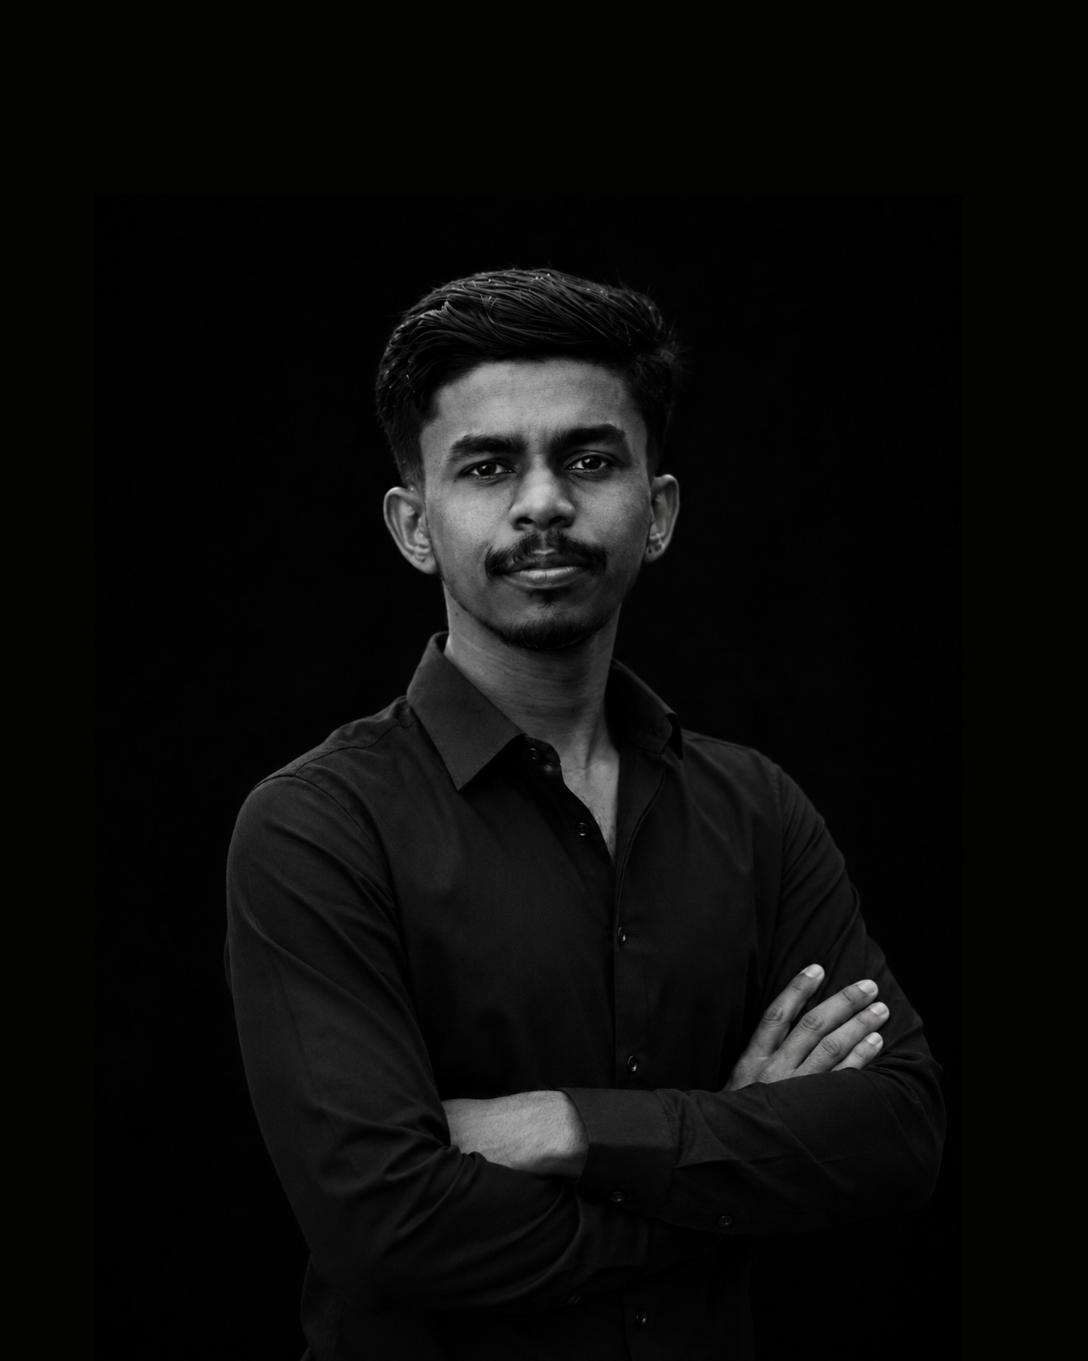
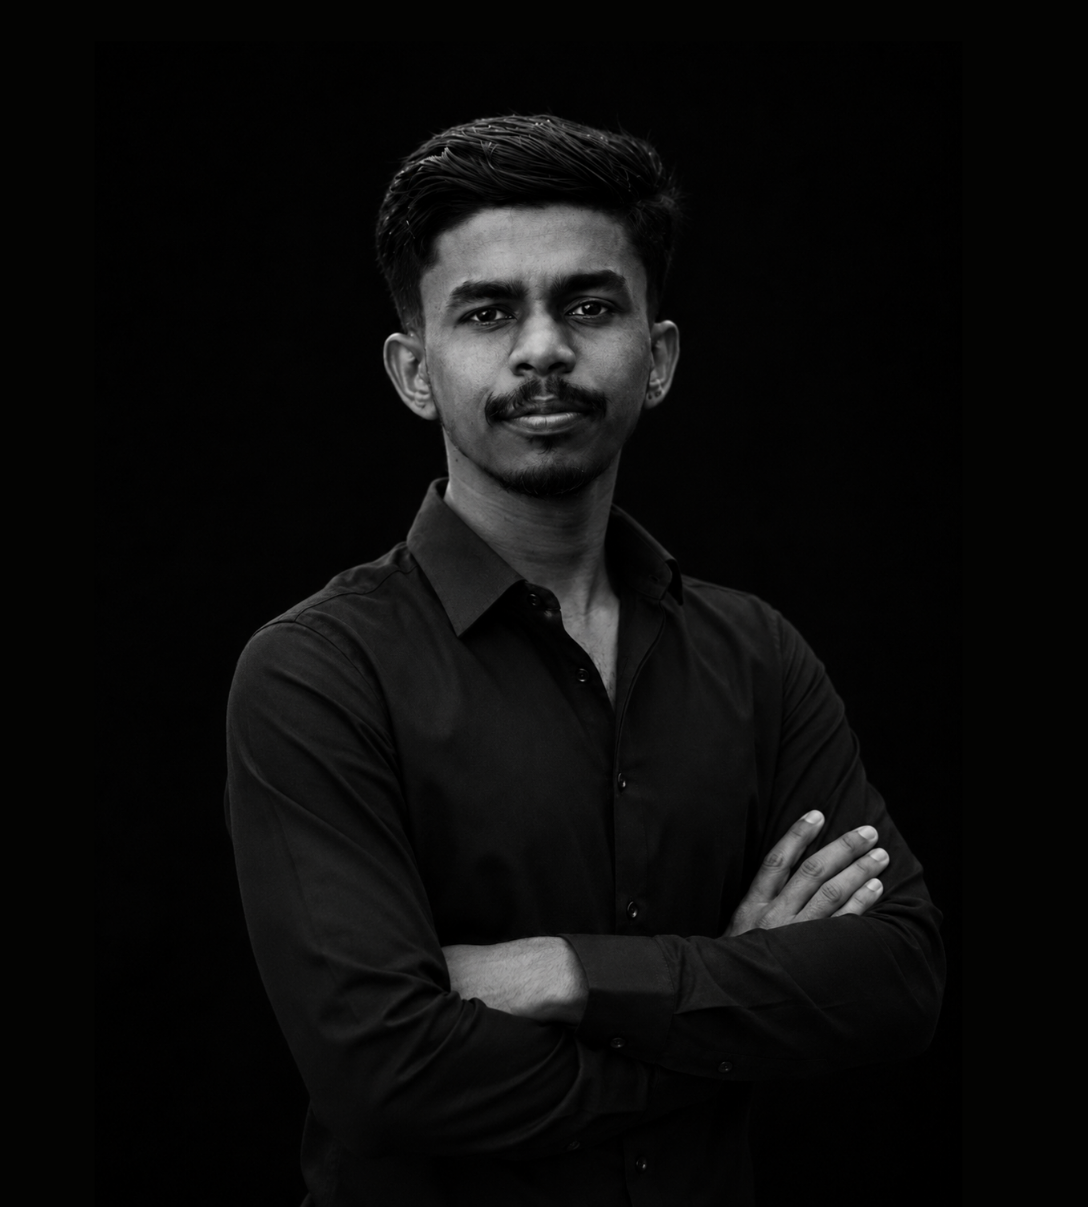
implement About, Contact, and supporting section components with GSAP scroll animations

diff --git a/components/sections/Contact.tsx b/components/sections/Contact.tsx
@@ -90,13 +90,16 @@ export function Contact() {
         {/* Heading */}
         <Reveal direction="up">
           <h2 className="contact-heading text-display mb-16 max-w-4xl text-4xl text-[var(--foreground)] md:text-6xl">
-            Let&apos;s build something{" "}
-            <span className="text-[var(--primary)]">intelligent</span>
+            Let’s connect and build <span className="text-[var(--primary)]">intelligent solutions</span>
           </h2>
         </Reveal>
 
+        {/* Ambient background glows */}
+        <div className="absolute right-0 bottom-0 -z-10 h-80 w-80 rounded-full bg-[var(--primary)]/10 blur-[130px] pointer-events-none" />
+        <div className="absolute left-1/4 top-1/3 -z-10 h-64 w-64 rounded-full bg-[var(--primary)]/5 blur-[100px] pointer-events-none animate-blob" />
+
         {/* Content */}
-        <div className="grid gap-14 md:grid-cols-[1.3fr_0.8fr] md:gap-20">
+        <div className="grid gap-14 md:grid-cols-[1.2fr_0.8fr] md:gap-20">
           {/* Divider */}
           <div className="col-span-full contact-divider h-px w-full bg-[var(--border)]" />
 
@@ -146,9 +149,17 @@ export function Contact() {
                 className="contact-link group flex items-center justify-between border-b border-[var(--border)] py-5 text-lg text-[var(--foreground)] transition-colors hover:text-[var(--primary)]"
               >
                 <div className="flex items-center gap-4">
-                  <span>GitHub</span>
+                  <svg className="h-5 w-5 fill-current text-[var(--muted-foreground)] group-hover:text-[var(--primary)] transition-colors" viewBox="0 0 24 24">
+                    <path d="M12 0c-6.626 0-12 5.373-12 12 0 5.302 3.438 9.8 8.207 11.387.599.111.793-.261.793-.577v-2.234c-3.338.726-4.033-1.416-4.033-1.416-.546-1.387-1.333-1.756-1.333-1.756-1.089-.745.083-.729.083-.729 1.205.084 1.839 1.237 1.839 1.237 1.07 1.834 2.807 1.304 3.492.997.107-.775.418-1.305.762-1.604-2.665-.305-5.467-1.334-5.467-5.931 0-1.311.469-2.381 1.236-3.221-.124-.303-.535-1.524.117-3.176 0 0 1.008-.322 3.301 1.23.957-.266 1.983-.399 3.003-.404 1.02.005 2.047.138 3.006.404 2.291-1.552 3.297-1.23 3.297-1.23.653 1.653.242 2.874.118 3.176.77.84 1.235 1.911 1.235 3.221 0 4.609-2.807 5.624-5.479 5.921.43.372.823 1.102.823 2.222v3.293c0 .319.192.694.801.576 4.765-1.589 8.199-6.086 8.199-11.386 0-6.627-5.373-12-12-12z" />
+                  </svg>
+                  <div className="flex flex-col">
+                    <span>GitHub</span>
+                    <span className="text-sm text-[var(--muted-foreground)] font-mono">
+                      Check out my code
+                    </span>
+                  </div>
                 </div>
-                <span className="translate-x-0 text-[var(--muted-foreground)] transition-all duration-300 group-hover:translate-x-1 group-hover:text-[var(--primary)]">
+                <span className="translate-x-0 text-[var(--muted-foreground)] transition-all duration-300 group-hover:translate-x-1 group-hover:text-[var(--primary)] group-hover:rotate-45">
                   ↗
                 </span>
               </a>
@@ -160,9 +171,39 @@ export function Contact() {
                 className="contact-link group flex items-center justify-between border-b border-[var(--border)] py-5 text-lg text-[var(--foreground)] transition-colors hover:text-[var(--primary)]"
               >
                 <div className="flex items-center gap-4">
-                  <span>LinkedIn</span>
+                  <svg className="h-5 w-5 fill-current text-[var(--muted-foreground)] group-hover:text-[var(--primary)] transition-colors" viewBox="0 0 24 24">
+                    <path d="M19 0h-14c-2.761 0-5 2.239-5 5v14c0 2.761 2.239 5 5 5h14c2.762 0 5-2.239 5-5v-14c0-2.761-2.238-5-5-5zm-11 19h-3v-11h3v11zm-1.5-12.268c-.966 0-1.75-.779-1.75-1.75s.784-1.75 1.75-1.75 1.75.779 1.75 1.75-.784 1.75-1.75 1.75zm13.5 12.268h-3v-5.604c0-3.368-4-3.113-4 0v5.604h-3v-11h3v1.765c1.396-2.586 7-2.777 7 2.476v6.759z" />
+                  </svg>
+                  <div className="flex flex-col">
+                    <span>LinkedIn</span>
+                    <span className="text-sm text-[var(--muted-foreground)] font-mono">
+                      Connect professionally
+                    </span>
+                  </div>
                 </div>
-                <span className="translate-x-0 text-[var(--muted-foreground)] transition-all duration-300 group-hover:translate-x-1 group-hover:text-[var(--primary)]">
+                <span className="translate-x-0 text-[var(--muted-foreground)] transition-all duration-300 group-hover:translate-x-1 group-hover:text-[var(--primary)] group-hover:rotate-45">
+                  ↗
+                </span>
+              </a>
+
+              <a
+                href="https://x.com/puvanakopis"
+                target="_blank"
+                rel="noopener noreferrer"
+                className="contact-link group flex items-center justify-between border-b border-[var(--border)] py-5 text-lg text-[var(--foreground)] transition-colors hover:text-[var(--primary)]"
+              >
+                <div className="flex items-center gap-4">
+                  <svg className="h-4 w-4 fill-current text-[var(--muted-foreground)] group-hover:text-[var(--primary)] transition-colors mx-[2px]" viewBox="0 0 24 24">
+                    <path d="M18.244 2.25h3.308l-7.227 8.26 8.502 11.24H16.17l-5.214-6.817L4.99 21.75H1.68l7.73-8.835L1.254 2.25H8.08l4.713 6.231zm-1.161 17.52h1.833L7.084 4.126H5.117z" />
+                  </svg>
+                  <div className="flex flex-col">
+                    <span>Twitter / X</span>
+                    <span className="text-sm text-[var(--muted-foreground)] font-mono">
+                      Follow my updates
+                    </span>
+                  </div>
+                </div>
+                <span className="translate-x-0 text-[var(--muted-foreground)] transition-all duration-300 group-hover:translate-x-1 group-hover:text-[var(--primary)] group-hover:rotate-45">
                   ↗
                 </span>
               </a>
@@ -172,9 +213,18 @@ export function Contact() {
                 className="contact-link group flex items-center justify-between border-b border-[var(--border)] py-5 text-lg text-[var(--foreground)] transition-colors hover:text-[var(--primary)]"
               >
                 <div className="flex items-center gap-4">
-                  <span>Email</span>
+                  <svg className="h-5 w-5 fill-none stroke-current text-[var(--muted-foreground)] group-hover:text-[var(--primary)] transition-colors" strokeWidth="2" viewBox="0 0 24 24" strokeLinecap="round" strokeLinejoin="round">
+                    <path d="M4 4h16c1.1 0 2 .9 2 2v12c0 1.1-.9 2-2 2H4c-1.1 0-2-.9-2-2V6c0-1.1.9-2 2-2z" />
+                    <polyline points="22,6 12,13 2,6" />
+                  </svg>
+                  <div className="flex flex-col">
+                    <span>Email</span>
+                    <span className="text-sm text-[var(--muted-foreground)] font-mono">
+                      Drop me a message
+                    </span>
+                  </div>
                 </div>
-                <span className="translate-x-0 text-[var(--muted-foreground)] transition-all duration-300 group-hover:translate-x-1 group-hover:text-[var(--primary)]">
+                <span className="translate-x-0 text-[var(--muted-foreground)] transition-all duration-300 group-hover:translate-x-1 group-hover:text-[var(--primary)] group-hover:rotate-45">
                   ↗
                 </span>
               </a>

diff --git a/components/sections/About.tsx b/components/sections/About.tsx
@@ -9,27 +9,6 @@ import { Counter } from "@/components/Counter";
 
 gsap.registerPlugin(ScrollTrigger);
 
-const skills = [
-  "Python",
-  "AI Agents",
-  "LLMs",
-  "RAG",
-  "LangChain",
-  "LangGraph",
-  "FastAPI",
-  "Next.js",
-  "MongoDB",
-  "PostgreSQL",
-  "ChromaDB",
-  "Pinecone",
-  "OpenAI API",
-  "Hugging Face",
-  "Streamlit",
-  "Docker",
-  "Git",
-  "Machine Learning",
-];
-
 const stats = [
   { value: 7, suffix: "+", label: "AI Projects" },
   { value: 3, suffix: "+", label: "Professional Certificates" },
@@ -137,7 +116,7 @@ export function About() {
     <section
       ref={root}
       id="about"
-      className="overflow-hidden px-6 pb-14 pt-4 md:pb-28 md:pt-1"
+      className="overflow-hidden px-6 pb-14 md:pb-28"
     >
       <div className="mx-auto grid max-w-7xl gap-14 md:grid-cols-2 md:gap-20">
         <div ref={imgWrap} className="overflow-hidden rounded-2xl">
@@ -157,37 +136,39 @@ export function About() {
           </Reveal>
           <Reveal direction="up">
             <h2 className="text-display mb-8 text-4xl text-[var(--foreground)] md:text-5xl">
-              Transforming AI ideas into real-world products.
+              Who I am and <span className="text-[var(--primary)]">what I build?</span>
             </h2>
           </Reveal>
           <Reveal delay={1} direction="up">
             <p className="mb-5 max-w-lg leading-relaxed text-[var(--muted-foreground)]">
-              I&apos;m a third-year Software Engineering undergraduate at
-              Sabaragamuwa University of Sri Lanka, specializing in <strong>AI Engineering</strong>.
-              I build and deploy production-grade LLM systems from multi agent conversational
-              assistants to RAG powered platforms with a focus on real world impact.
+              I’m a Software Engineering undergraduate focused on building AI systems using LLMs, agentic workflows, and RAG. I develop full-stack AI applications with FastAPI, Next.js, and vector databases, turning machine learning concepts into working products.
             </p>
 
             <p className="mb-10 max-w-lg leading-relaxed text-[var(--muted-foreground)]">
-              I&apos;ve developed end to end AI products including <strong>iStore</strong> (a LangGraph based
-              multi agent shopping assistant), <strong>CampusEase</strong> (a RAG powered university accommodation
-              platform using ChromaDB), and a <strong>Smart Data Analysis multi agent system</strong> for automated
-              analytics. As a freelancer, I ship full stack solutions using FastAPI,
-              Next.js, and Docker combining cutting edge AI with robust software engineering.
+              My experience includes multi-agent systems, conversational AI, and data analytics pipelines built with LangChain and LangGraph, with a focus on practical system design and deployment.
             </p>
           </Reveal>
 
-          {/* Skill tags */}
-          <div className="skills-wrap mb-10 flex flex-wrap gap-3">
-            {skills.map((s) => (
-              <span
-                key={s}
-                className="skill-tag rounded-full border border-[var(--border)] px-4 py-2 text-sm text-[var(--muted-foreground)] transition-colors hover:border-[var(--primary)] hover:text-[var(--primary)]"
-              >
-                {s}
-              </span>
-            ))}
-          </div>
+
+          {/* Identity block */}
+          <Reveal delay={2} direction="up">
+            <div className="mb-10 grid gap-4 text-sm">
+              <div className="flex justify-between">
+                <span className="text-[var(--muted-foreground)]">Location</span>
+                <span className="text-[var(--foreground)]">Batticaloa, Sri Lanka</span>
+              </div>
+
+              <div className="flex justify-between">
+                <span className="text-[var(--muted-foreground)]">University</span>
+                <span className="text-[var(--foreground)]">Sabaragamuwa University of Sri Lanka</span>
+              </div>
+
+              <div className="flex justify-between">
+                <span className="text-[var(--muted-foreground)]">Focus</span>
+                <span className="text-[var(--foreground)]">AI Engineering & Software Systems</span>
+              </div>
+            </div>
+          </Reveal>
 
           <Reveal delay={3} direction="up">
             <a

diff --git a/components/sections/Services.tsx b/components/sections/Services.tsx
@@ -11,22 +11,17 @@ const services = [
   {
     num: "01",
     title: "AI Engineering",
-    desc: "Building production-ready AI applications using LLMs, LangChain, LangGraph, RAG pipelines, embeddings, and modern AI frameworks.",
+    desc: "Building production AI systems using LLMs, LangChain/LangGraph, RAG pipelines, and vector databases. Focused on multi-agent architectures, tool-calling workflows, and scalable AI backend design.",
   },
   {
     num: "02",
-    title: "Agentic AI Systems",
-    desc: "Designing multi-agent workflows, tool-calling architectures, AI assistants, and autonomous systems that solve complex business problems.",
+    title: "Data Analytics",
+    desc: "Extracting insights from data using statistical analysis, feature engineering, and visualization. Experienced in EDA, anomaly detection, and building interactive dashboards with Python-based analytics tools.",
   },
   {
     num: "03",
-    title: "Data Analytics",
-    desc: "Transforming raw data into actionable insights through data analysis, dashboards, visualization, statistical analysis, and business intelligence solutions.",
-  },
-  {
-    num: "04",
     title: "Full-Stack Development",
-    desc: "Developing scalable AI-powered web applications using Next.js, FastAPI, Python, MongoDB, vector databases, and cloud-ready architectures.",
+    desc: "Developing AI-powered web applications using Next.js and FastAPI with secure APIs, authentication systems, and database integration. Focused on scalable, production-ready architectures with modern deployment practices.",
   },
 ];
 
@@ -96,7 +91,7 @@ export function Services() {
         </Reveal>
         <Reveal direction="up">
           <h2 className="text-display mb-16 max-w-2xl text-4xl text-[var(--foreground)] md:text-6xl">
-            Building Intelligent Digital Solutions
+            What I can help you <span className="text-[var(--primary)]">build?</span>
           </h2>
         </Reveal>
 
@@ -109,7 +104,7 @@ export function Services() {
                 <h3 className="service-title text-display text-2xl text-[var(--foreground)] transition-transform duration-300 group-hover:translate-x-2 group-hover:text-[var(--primary)] md:text-4xl">
                   {s.title}
                 </h3>
-                <p className="service-desc col-span-2 mt-2 max-h-40 text-[var(--muted-foreground)] opacity-70 transition-all duration-500 md:col-span-1 md:mt-0 md:opacity-60 md:group-hover:opacity-100">
+                <p className="service-desc col-span-2 mt-2 max-h-40 text-[var(--muted-foreground)] opacity-90 transition-all duration-500 md:col-span-1 md:mt-0 md:opacity-90 md:group-hover:opacity-100">
                   {s.desc}
                 </p>
               </div>

diff --git a/components/sections/Timeline.tsx b/components/sections/Timeline.tsx
@@ -9,7 +9,8 @@ gsap.registerPlugin(ScrollTrigger);
 
 const items = [
   {
-    year: "2024",
+    startYear: 2023,
+    endYear: 2024,
     role: "Full Stack Developer",
     company: "Fiverr (Freelance)",
     desc: "Developed responsive full-stack web applications using React.js, Next.js, Node.js, and Express.js. Built REST APIs, authentication systems, and scalable digital solutions while delivering client-focused projects across multiple domains.",
@@ -124,7 +125,7 @@ export function Timeline() {
 
         <Reveal direction="up">
           <h2 className="text-display mb-16 max-w-3xl text-4xl text-[var(--foreground)] md:text-6xl">
-            Building AI Solutions Through Learning &amp; Practice
+            Where I’ve worked and <span className="text-[var(--primary)]">what I’ve built?</span>
           </h2>
         </Reveal>
 
@@ -138,16 +139,14 @@ export function Timeline() {
           </div>
 
           {items.map((item) => (
-            <div key={`${item.year}-${item.role}`} className="group md:pl-8">
+            <div key={`${item.startYear}-${item.role}`} className="group md:pl-8">
               <span className="timeline-line block h-px w-full bg-[var(--border)]" />
 
-              <div className="timeline-item grid grid-cols-1 gap-6 py-8 md:grid-cols-[120px_1.2fr_1fr] md:items-center md:gap-10 md:py-10">
+              <div className="timeline-item grid grid-cols-1 gap-6 py-8 md:grid-cols-[180px_1.2fr_1fr] md:items-center md:gap-10 md:py-10">
                 {/* Year */}
-                <div>
-                  <span className="timeline-year text-display text-2xl text-[var(--muted-foreground)] transition-colors duration-300 group-hover:text-[var(--primary)] md:text-4xl">
-                    {item.year}
-                  </span>
-                </div>
+                <span className="timeline-year text-display text-2xl text-[var(--muted-foreground)] transition-colors duration-300 group-hover:text-[var(--primary)] md:text-4xl whitespace-nowrap">
+                  {item.startYear} - {item.endYear ?? "Present"}
+                </span>
 
                 {/* Role */}
                 <div>

diff --git a/components/sections/Hero.tsx b/components/sections/Hero.tsx
@@ -228,10 +228,7 @@ export function Hero() {
             </h1>
 
             <p className="hero-fade mt-10 max-w-2xl mx-auto lg:mx-0 text-lg leading-relaxed text-[var(--muted-foreground)]">
-              Software Engineering undergraduate specializing in AI
-              Engineering, Agentic AI Systems, Large Language Models (LLMs),
-              Retrieval-Augmented Generation (RAG), and Full-Stack AI
-              Applications.
+              Software Engineering undergraduate passionate about building AI agents, RAG systems, and full-stack applications. I enjoy transforming complex problems into intelligent, scalable solutions that deliver real-world impact.
             </p>
 
             {/* CTA Buttons */}
@@ -253,13 +250,13 @@ export function Hero() {
 
               <button
                 onClick={handleNav("#contact")}
-                className="group relative inline-flex items-center gap-3 overflow-hidden rounded-full border border-[var(--border)] px-8 py-4 text-sm font-medium uppercase tracking-wider transition-colors hover:border-[var(--primary)]"
+                className="group relative inline-flex items-center gap-3 overflow-hidden rounded-full border border-[var(--primary)] px-8 py-4 text-sm font-medium uppercase tracking-wider text-[var(--primary)] transition-all duration-300 hover:bg-[var(--primary)] hover:text-[var(--primary-foreground)] hover:shadow-[0_0_20px_rgba(200,255,0,0.3)]"
               >
-                <span className="relative z-10 transition-colors duration-300 group-hover:text-[var(--primary)]">
+                <span className="relative z-10 transition-colors duration-300">
                   Let's Talk
                 </span>
 
-                <span className="relative z-10 transition-transform duration-300 group-hover:translate-x-0.5 group-hover:text-[var(--primary)]">
+                <span className="relative z-10 transition-transform duration-300 group-hover:translate-x-0.5">
                   →
                 </span>
               </button>

diff --git a/components/sections/Project.tsx b/components/sections/Project.tsx
@@ -65,7 +65,7 @@ function Card({ p, index }: { p: Project; index: number }) {
                 data-cursor-hover
               >
                 <svg className="h-3 w-3 fill-current" viewBox="0 0 24 24">
-                  <path d="M12 0c-6.626 0-12 5.373-12 12 0 5.302 3.438 9.8 8.207 11.387.599.111.793-.261.793-.577v-2.234c-3.338.726-4.033-1.416-4.033-1.416-.546-1.387-1.333-1.756-1.333-1.756-1.089-.745.083-.729.083-.729 1.205.084 1.839 1.237 1.839 1.237 1.07 1.834 2.807 1.304 3.492.997.107-.775.418-1.305.762-1.604-2.665-.305-5.467-1.334-5.467-5.931 0-1.311.469-2.381 1.236-3.221-.124-.303-.535-1.524.117-3.176 0 0 1.008-.322 3.301 1.23.957-.266 1.983-.399 3.003-.404 1.02.005 2.047.138 3.006.404 2.291-1.552 3.297-1.23 3.297-1.23.653 1.653.242 2.874.118 3.176.77.84 1.235 1.911 1.235 3.221 0 4.609-2.807 5.624-5.479 5.921.43.372.823 1.102.823 2.222v3.293c0 .319.192.694.801.576 4.765-1.589 8.199-6.086 8.199-11.386 0-6.627-5.373-12-12-12z"/>
+                  <path d="M12 0c-6.626 0-12 5.373-12 12 0 5.302 3.438 9.8 8.207 11.387.599.111.793-.261.793-.577v-2.234c-3.338.726-4.033-1.416-4.033-1.416-.546-1.387-1.333-1.756-1.333-1.756-1.089-.745.083-.729.083-.729 1.205.084 1.839 1.237 1.839 1.237 1.07 1.834 2.807 1.304 3.492.997.107-.775.418-1.305.762-1.604-2.665-.305-5.467-1.334-5.467-5.931 0-1.311.469-2.381 1.236-3.221-.124-.303-.535-1.524.117-3.176 0 0 1.008-.322 3.301 1.23.957-.266 1.983-.399 3.003-.404 1.02.005 2.047.138 3.006.404 2.291-1.552 3.297-1.23 3.297-1.23.653 1.653.242 2.874.118 3.176.77.84 1.235 1.911 1.235 3.221 0 4.609-2.807 5.624-5.479 5.921.43.372.823 1.102.823 2.222v3.293c0 .319.192.694.801.576 4.765-1.589 8.199-6.086 8.199-11.386 0-6.627-5.373-12-12-12z" />
                 </svg>
                 GitHub
               </a>
@@ -167,13 +167,13 @@ export function Project() {
           className="mb-6 block text-sm uppercase tracking-[0.3em] text-[var(--primary)]"
           direction="left"
         >
-          Selected Project
+          Project
         </Reveal>
 
         {/* Heading */}
         <Reveal direction="up">
           <h2 className="text-display mb-16 max-w-4xl text-4xl text-[var(--foreground)] md:text-6xl">
-            Featured <span className="text-[var(--primary)]">Projects</span>
+            What I’ve built and <span className="text-[var(--primary)]">shipped?</span>
           </h2>
         </Reveal>
       </div>